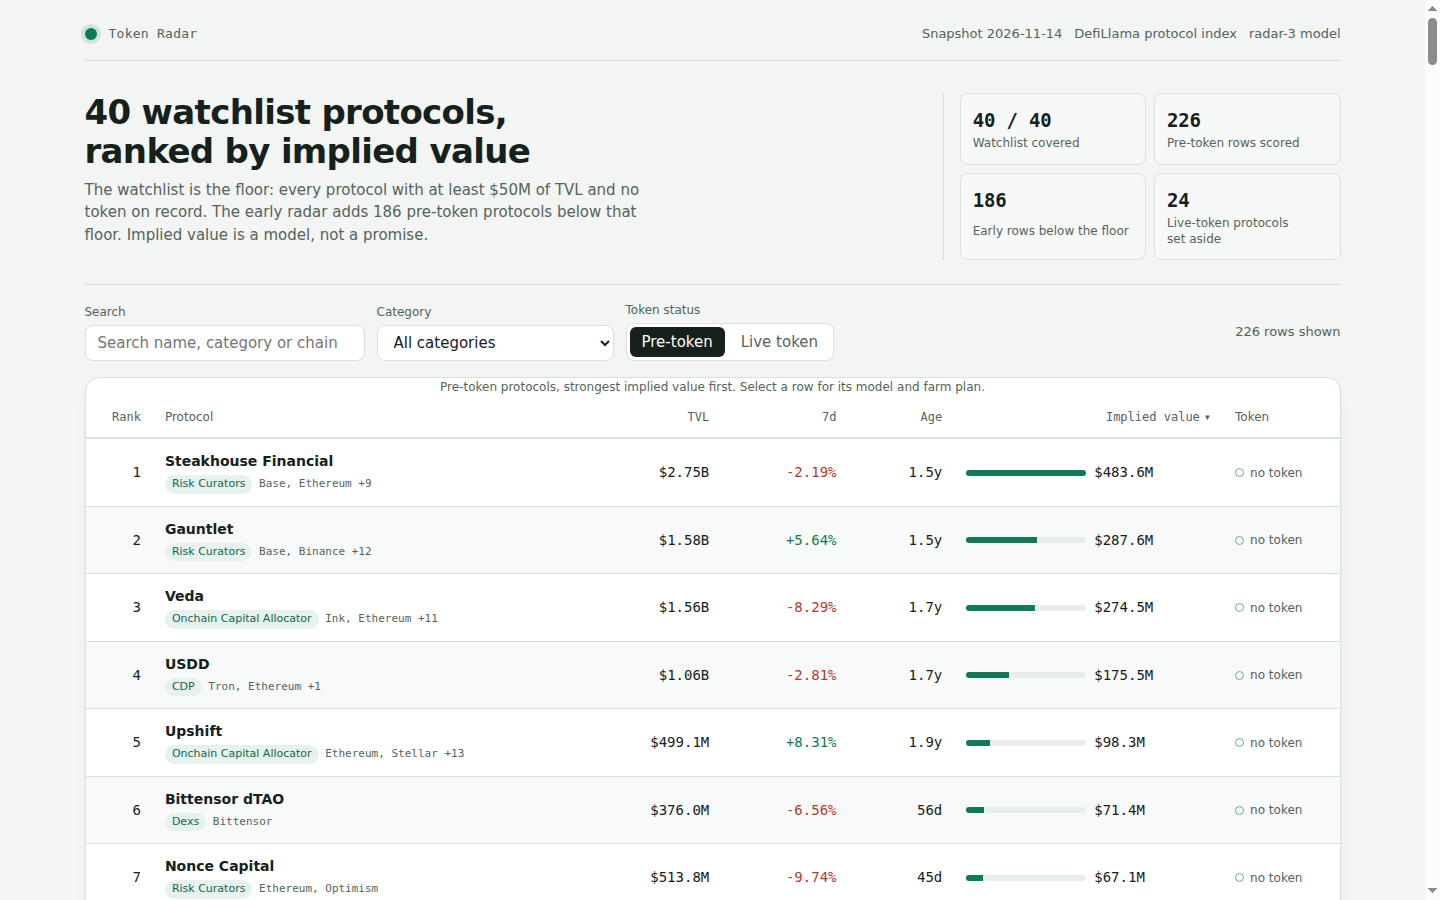
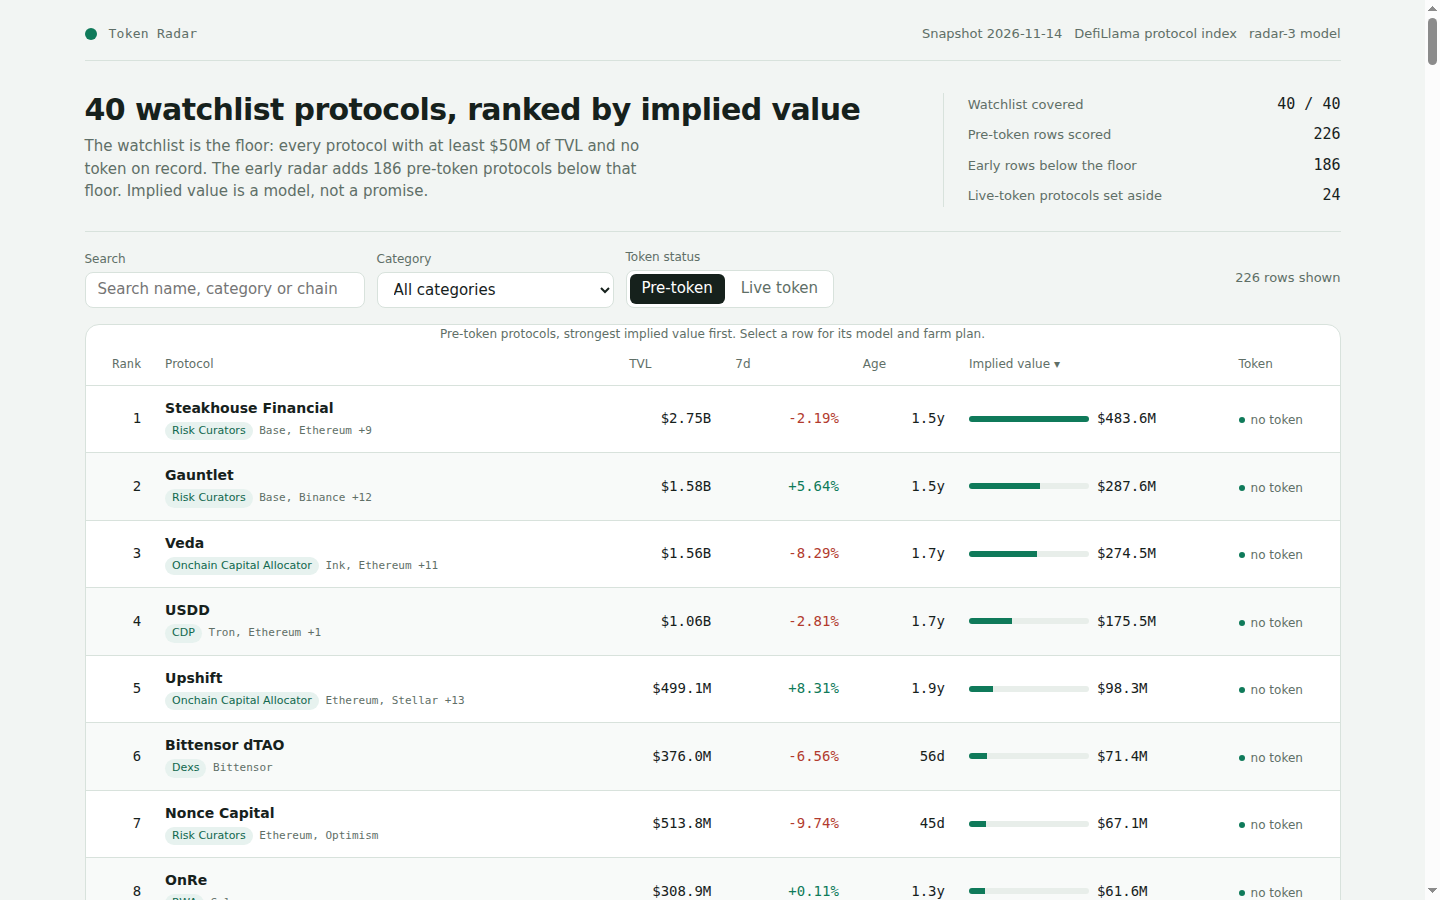
revert layout to the best-measured one; keep only the fix set (single plus, rank header, right-aligned numerics)

diff --git a/dashboard/app.css b/dashboard/app.css
@@ -4,7 +4,7 @@
   --canvas: #f2f5f3;
   --surface: #ffffff;
   --ink: #16211c;
-  --muted: #55635c;
+  --muted: #5f6f67;
   --border: #d8e2dc;
   --accent: #0f7a5a;
   --negative: #b23b2e;
@@ -46,25 +46,21 @@ a { color: var(--accent); }
 :focus-visible { outline: 2px solid var(--accent); outline-offset: 2px; }
 
 .shell { max-width: 1320px; margin: 0 auto; padding: var(--step-5) var(--step-6) var(--step-7); }
-h1 { font-size: 34px; }
 .top {
   display: flex; align-items: flex-start; justify-content: space-between; gap: var(--step-5);
   padding-bottom: var(--step-4); border-bottom: 1px solid var(--border);
 }
 .brand { display: flex; align-items: center; gap: var(--step-3); }
-.mark { width: 12px; height: 12px; border-radius: 50%; background: var(--accent); flex: none; box-shadow: 0 0 0 4px color-mix(in srgb, var(--accent) 14%, transparent); }
+.mark { width: 12px; height: 12px; border-radius: 50%; background: var(--accent); flex: none; }
 .brand-name { font-family: var(--font-num); font-size: 13px; letter-spacing: 0.02em; color: var(--muted); }
 .top-meta { display: flex; flex-wrap: wrap; gap: var(--step-3); justify-content: flex-end; color: var(--muted); font-size: 13px; }
 .top-meta span { white-space: nowrap; }
-.lede { display: grid; grid-template-columns: minmax(0, 1.35fr) minmax(300px, 0.65fr); gap: var(--step-6); padding: var(--step-6) 0 var(--step-5); }
+.lede { display: grid; grid-template-columns: minmax(0, 1.35fr) minmax(280px, 0.65fr); gap: var(--step-6); padding: var(--step-6) 0 var(--step-5); }
 .lede p { color: var(--muted); max-width: 62ch; margin-top: var(--step-2); }
-.facts { display: grid; grid-template-columns: 1fr 1fr; gap: var(--step-2); align-content: start; padding-left: var(--step-4); border-left: 1px solid var(--border); }
-.fact {
-  display: grid; gap: 2px; padding: var(--step-3); border: 1px solid var(--border); border-radius: var(--radius-control);
-  background: color-mix(in srgb, var(--canvas) 60%, var(--surface));
-}
-.fact b { font-family: var(--font-num); font-size: 19px; font-weight: 600; letter-spacing: -0.01em; order: -1; }
-.fact span { color: var(--muted); font-size: 12px; line-height: 1.3; }
+.facts { display: grid; gap: var(--step-2); align-content: start; border-left: 1px solid var(--border); padding-left: var(--step-5); }
+.fact { display: flex; align-items: baseline; justify-content: space-between; gap: var(--step-3); }
+.fact b { font-family: var(--font-num); font-size: 15px; font-weight: 500; }
+.fact span { color: var(--muted); font-size: 13px; }
 
 .controls { display: flex; flex-wrap: wrap; align-items: end; gap: var(--step-3); padding: var(--step-4) 0; border-top: 1px solid var(--border); }
 .field { display: grid; gap: var(--step-1); }
@@ -79,11 +75,11 @@ h1 { font-size: 34px; }
 .tabs button[aria-pressed="true"] { background: var(--ink); color: var(--surface); }
 .count { margin-left: auto; color: var(--muted); font-size: 13px; align-self: center; }
 
-.panel { background: var(--surface); border: 1px solid var(--border); border-radius: var(--radius-panel); overflow: hidden; box-shadow: 0 1px 2px color-mix(in srgb, var(--ink) 5%, transparent), 0 8px 24px -16px color-mix(in srgb, var(--ink) 18%, transparent); }
+.panel { background: var(--surface); border: 1px solid var(--border); border-radius: var(--radius-panel); overflow: hidden; }
 .table-wrap { overflow-x: auto; }
 table { width: 100%; border-collapse: collapse; font-size: 14px; }
 th, td { padding: var(--step-3) var(--step-3); border-bottom: 1px solid var(--border); text-align: left; vertical-align: middle; }
-th { color: var(--muted); font-size: 12px; font-weight: 500; white-space: nowrap; position: sticky; top: 0; z-index: 1; background: var(--surface); box-shadow: inset 0 -1px 0 var(--border); }
+th { color: var(--muted); font-size: 12px; font-weight: 500; white-space: nowrap; }
 th button { display: inline-flex; align-items: center; gap: var(--step-1); border: 0; background: none; padding: 0; color: inherit; font: inherit; }
 th button:hover { color: var(--ink); }
 tbody tr { cursor: pointer; }
@@ -92,7 +88,6 @@ tbody tr:hover { background: color-mix(in srgb, var(--accent) 6%, var(--surface)
 tbody tr[data-selected="true"] { background: color-mix(in srgb, var(--accent) 10%, var(--surface)); }
 tbody tr:focus-visible { outline: 2px solid var(--accent); outline-offset: -2px; }
 .num { font-family: var(--font-num); font-variant-numeric: tabular-nums; white-space: nowrap; text-align: right; }
-th.num button { justify-content: flex-end; width: 100%; }
 .name { display: grid; gap: 2px; }
 .name b { font-weight: 600; }
 .sub { color: var(--muted); font-size: 12px; }
@@ -104,7 +99,7 @@ th.num button { justify-content: flex-end; width: 100%; }
 .bar i { display: block; height: 100%; background: var(--accent); }
 .implied { display: flex; align-items: center; gap: var(--step-2); }
 .status { display: inline-flex; align-items: center; gap: 6px; color: var(--muted); font-size: 12px; white-space: nowrap; }
-.status::before { content: ""; width: 7px; height: 7px; border-radius: 50%; border: 1px solid color-mix(in srgb, var(--accent) 55%, var(--border)); background: transparent; }
+.status::before { content: ""; width: 6px; height: 6px; border-radius: 50%; background: var(--accent); }
 
 .model { margin-top: var(--step-4); padding: var(--step-5); display: grid; gap: var(--step-3); }
 .formula { font-family: var(--font-num); font-size: 13px; line-height: 1.7; color: var(--muted); overflow-wrap: anywhere; }

diff --git a/dashboard/app.js b/dashboard/app.js
@@ -198,8 +198,8 @@
     );
   }
 
-  function sortHeader(key, label, numeric) {
-    return el('th', { scope: 'col', class: numeric ? 'num' : null },
+  function sortHeader(key, label) {
+    return el('th', { scope: 'col' },
       el('button', { type: 'button', onclick: function () { if (state.sort === key) state.dir = -state.dir; else { state.sort = key; state.dir = -1; } render(); } },
         label,
         state.sort === key ? el('span', { 'aria-hidden': 'true', text: state.dir < 0 ? ' \u25BE' : ' \u25B4' }) : null
@@ -252,11 +252,11 @@
           el('caption', { class: 'sub', text: 'Pre-token protocols, strongest implied value first. Select a row for its model and farm plan.' }),
           el('thead', null, el('tr', null,
             el('th', { scope: 'col', class: 'num', text: 'Rank' }),
-            sortHeader('name', 'Protocol', false),
-            sortHeader('tvl', 'TVL', true),
-            sortHeader('growth', '7d', true),
-            sortHeader('age', 'Age', true),
-            sortHeader('implied', 'Implied value', true),
+            sortHeader('name', 'Protocol'),
+            sortHeader('tvl', 'TVL'),
+            sortHeader('growth', '7d'),
+            sortHeader('age', 'Age'),
+            sortHeader('implied', 'Implied value'),
             el('th', { scope: 'col', text: 'Token' })
           )),
           tbody
